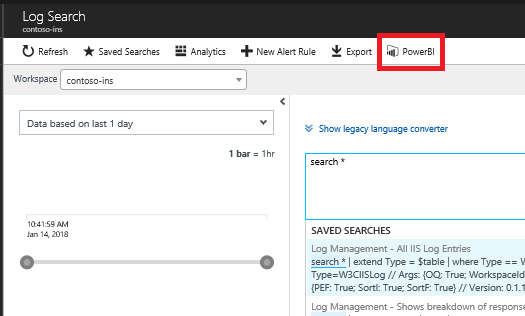
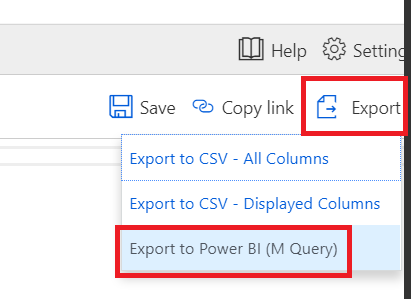
October updates for Azure changes

diff --git a/Hands-on lab/HOL step-by step - Azure security privacy and compliance.md b/Hands-on lab/HOL step-by step - Azure security privacy and compliance.md
@@ -9,7 +9,7 @@ Hands-on lab step-by-step
 </div>
 
 <div class="MCWHeader3">
-August 2018
+October 2018
 </div>
 
 
@@ -140,7 +140,7 @@ Synopsis: In this exercise, attendees will secure a Privileged Access Workstatio
 
    f.  Select **Just in time VM access**.
 
-3.  Select the **Recommended** tab, and then check the checkbox to select all the virtual machines, and then select the **Enable JIT on 3 VMs** link.
+3.  Select the **Recommended** tab, and then check the checkbox to select the lab vms (db-1, paw-1 and web-1), and then select the **Enable JIT on 3 VMs** link.
 
 > **NOTE:** It could take up to 10 minutes for new VMs to show up if you upgraded to standard tier security.  Also note that it is possible new VMs display in the **No recommendation** tab until a backend process moves them to the **Recommended** tab.
 
@@ -156,7 +156,7 @@ Synopsis: In this exercise, attendees will secure a Privileged Access Workstatio
 
 1.  Select the **Configured** tab. You should now see all the machines listed.
 
-2.  Select the **paw-1** virtual machine, and then select **Request Access**.
+2.  Select the **paw-1** virtual machine, and then select **Request access**.
 
     ![On the Virtual machines screen, the first listed virtual machine name is selected and highlighted (paw-1), as is Request access above it.](images/Hands-onlabstep-bystep-Azuresecurityprivacyandcomplianceimages/media/image12.png "Request access for paw-1")
 
@@ -164,7 +164,7 @@ Synopsis: In this exercise, attendees will secure a Privileged Access Workstatio
 
     ![On is highlighted under Toggle for all four of the ports listed under paw-1.](images/Hands-onlabstep-bystep-Azuresecurityprivacyandcomplianceimages/media/image13.png "Select on for each of the ports")
 
-4.  At the bottom of the dialog, select **Open ports**. You should now see the **APPROVED** requests have been incremented and the **LAST ACCESS** is set to **Active now.**.
+4.  At the bottom of the dialog, select **Open ports**. After a few moments, you should now see the **APPROVED** requests have been incremented and the **LAST ACCESS** is set to **Active now.**.
 
     ![On the Virtual machines screen, 1 Requests and Active now are highlighted under Aproved and Last Access next to the paw-1 virtual machine.](images/Hands-onlabstep-bystep-Azuresecurityprivacyandcomplianceimages/media/image14.png "View Approved and Last Access status")
 
@@ -172,11 +172,13 @@ Synopsis: In this exercise, attendees will secure a Privileged Access Workstatio
 
     ![Activity Log is highlighted in the shortcut menu for the last user.](images/Hands-onlabstep-bystep-Azuresecurityprivacyandcomplianceimages/media/image15.png "View the Activity Log")
 
-6.  In the Azure Portal main menu, select **Network Security Groups**, then select **paw-1-nsg**.
+6.  In the Azure Portal main menu, select **All Services**, then type **Network**, then select **Network Security Group**:
 
-    ![Network security groups is highlighted on the left side of the Azure portal, and paw-1-nsg is highlighted to the right.](images/Hands-onlabstep-bystep-Azuresecurityprivacyandcomplianceimages/media/image16.png "Select paw-1-nsg")
+![Network security groups is highlighted on the left side of the Azure portal, and paw-1-nsg is highlighted to the right.](images/Hands-onlabstep-bystep-Azuresecurityprivacyandcomplianceimages/media/image16.png "Select paw-1-nsg")
 
-7.  Select **Inbound security rules.** You should now see a set of inbound security rules set up by JIT Access.
+7.  Select the **paw-1-nsg** network security group.
+
+8.  Select **Inbound security rules.** You should now see a set of inbound security rules set up by JIT Access.
 
     ![The first four listed items are highlighted under Inbound security rules.](images/Hands-onlabstep-bystep-Azuresecurityprivacyandcomplianceimages/media/image17.png "View the inbound security rules set up by JIT Access")
 
@@ -188,11 +190,11 @@ Synopsis: In this exercise, attendees will utilize Azure SQL features to data ma
 
 ### Task 1: Setup the database
 
-1.  Switch to your Azure portal, select **More Services** then select **SQL Servers**.
+1.  Switch to your Azure portal, select **All Services** then search for **SQL Servers**.  Select **SQl Servers**:
 
     ![More services is highlighted on the left side of the Azure portal, and SQL servers is highlighted to the right.](images/Hands-onlabstep-bystep-Azuresecurityprivacyandcomplianceimages/media/image18.png "Select SQL Servers")
 
-2.  Select the **Azure SQL** database server you created using the Azure Manager template.
+2.  Select the **Azure SQL** database server you created using the Azure Manager template (Ex:  AzureSecurity-INIT).
 
 3.  Select **SQL Databases**, then select the **SampleDB** database.
 
@@ -218,7 +220,7 @@ Synopsis: In this exercise, attendees will utilize Azure SQL features to data ma
 
 9.  Select **Connect**, in the **New Firewall Rule** dialog, select **Sign In**.
 
-10. Sign in as your Azure tenant admin.
+10. Sign in with your resource group owner credentials.
 
 11. In the dialog, select **OK**, notice how your IP address will be added for connection.
 
@@ -230,7 +232,7 @@ Synopsis: In this exercise, attendees will utilize Azure SQL features to data ma
 
 13. In the Introduction dialog, select **Next**.
 
-14. Select **Browse**, navigate to the extracted **Database** directory, and select the **Insurance.dacpac** file.
+14. Select **Browse**, navigate to the extracted **Database** directory, and select the **Insurance.bacpac** file.
 
     ![Insurance.bacpac is selected in the Browse dialog box.](images/Hands-onlabstep-bystep-Azuresecurityprivacyandcomplianceimages/media/image25.png "Select Insurance.bacpac")
 
@@ -388,7 +390,7 @@ Synopsis: In this exercise, attendees will utilize Azure SQL features to data ma
 
     d.  Select **Add New**.
 
-    e.  Select your account.
+    e.  For the principal, select your account.
 
     f.  Select **Key permissions**, and select **Select all**.
 
@@ -403,6 +405,8 @@ Synopsis: In this exercise, attendees will utilize Azure SQL features to data ma
     j.  Select **Save**.
 
     k.  Retry the operation.
+
+    > **NOTE:** If you are still getting errors (such as Access Denied), ensure that you have selected the correct subscription and Key Vault.
 
     ![Results is highlighted on the left side of the Always Encrypted dialog box, and at right, Performing encryption operations is selected under Summary: Task. Performing encryption operations has a green check mark and is listed as Passed under Details.](images/Hands-onlabstep-bystep-Azuresecurityprivacyandcomplianceimages/media/image41.png "View the task results")
 
@@ -486,21 +490,19 @@ Synopsis: In this exercise, attendees will learn how to migrate web application 
 
 7.  Copy and record the **Application ID** for later use.
 
-8.  Copy and record the **Object ID** for later use.
-
     ![The Application ID and Object ID are highlighted under Essentials for the AzureKeyVaultTest application, and All settings is selected at the bottom.](images/Hands-onlabstep-bystep-Azuresecurityprivacyandcomplianceimages/media/image50.png "Copy and record the Application ID and Object ID")
 
-9.  Select **Settings**.
+8.  Select **Settings**.
 
-10. Select **Keys**.
+9. Select **Keys**.
 
-11. For the description, enter **InsuranceAPI**.
+10. For the description, enter **InsuranceAPI**.
 
-12. For the Expires, select **In 1 year**.
+11. For the Expires, select **In 1 year**.
 
-13. Select **Save**.
+12. Select **Save**.
 
-14. Copy and record the key value for later use.
+13. Copy and record the key value for later use.
 
 ### Task 3: Assign Azure Active Directory application permissions
 
@@ -582,11 +584,17 @@ Synopsis: In this exercise, attendees will utilize Network Security Groups to en
 
 3.  In the **PAW-1** virtual machine, open **PowerShell ISE as administrator**.
 
-4.  Select File-\>Open, browse to the extracted GitHub directory and open the **\\Hands-on lab\\Scripts \\PortScanner.ps1**.
+4.  Run the following command:
 
-    > **NOTE:** You would have downloaded the GitHub repo and extraced this in the setup steps.  If you did not perform those steps, perform them now. You can also choose to copy the file from your desktop to the VM.
+```PowerShell
+Set-ExecutionPolicy -ExecutionPolicy Unrestricted
+```
 
-5.  Review the script. It does the following:
+5.  Select File-\>Open, browse to the extracted GitHub directory and open the **\\Hands-on lab\\Scripts \\PortScanner.ps1**.
+
+    > **NOTE:** You would have downloaded the [GitHub repo](https://github.com/Microsoft/MCW-Azure-Security-Privacy-and-Compliance) and extraced this in the setup steps.  If you did not perform those steps, perform them now. You can also choose to copy the file from your desktop to the VM.
+
+6.  Review the script. It does the following:
 
     a.  Installs NotePad++
 
@@ -596,7 +604,7 @@ Synopsis: In this exercise, attendees will utilize Network Security Groups to en
 
     c.  Executes port scans
 
-6.  Run the script, and press **F5.** You should see the following (the Azure ARM Template created a default rule to block all traffic):
+7.  Run the script, and press **F5.** You should see the following (the Azure ARM Template created a default rule to block all traffic):
 
     a.  Port scan for port 3389 (RDP) to **DB-1** and **WEB-1** is unsuccessful from the **PAW-1** machine.
 
@@ -656,7 +664,7 @@ Synopsis: In this exercise, attendees will utilize Network Security Groups to en
 
     h.  Select **Add**.
 
-    > **NOTE:** In some cases it may take up to 15 minutes for your Network Security Group to change is status from **Updating**.  You won't be able to add any other rules until it completes.
+    > **NOTE:** In some rare cases it may take up to 15 minutes for your Network Security Group to change is status from **Updating**.  You won't be able to add any other rules until it completes.
 
 4.  Configure both the database and web server to only allow RDP connections from the PAW machine;
 
@@ -754,7 +762,7 @@ Synopsis: In this exercise, attendees will utilize Network Security Groups to en
 
 1.  In the main Azure Portal menu, select **Monitor**.
 
-2.  In the context menu, select **Network Watcher**.
+2.  In the context menu, select **Network**.
 
     ![Monitor is selected on the left side of the Azure portal, and Network watcher is highlighted on the right.](images/Hands-onlabstep-bystep-Azuresecurityprivacyandcomplianceimages/media/image67.png "Select Network watcher")
 
@@ -887,7 +895,7 @@ Synopsis: In this exercise, you will create custom security alerts using the Azu
 
     ![Screen shot of the playbooks blade with the Add Playbook button highlighted.](images/Hands-onlabstep-bystep-Azuresecurityprivacyandcomplianceimages/media/image79.png)
 
-3.  The **Create logic app** dialog will display:
+3.  The **Create logic app** blade will display:
 
    a.  For the name, enter **Email**.
 
@@ -929,21 +937,23 @@ Synopsis: In this exercise, attendees will learn to utilize the Log Analytics fe
 
 ### Task 1: Export a Power Query formula from Log Analytics
 
-1.  Select **Monitor**, then select **Log Analytics**.
+1.  Select **Monitor**, then select **Logs**.
 
-    ![Monitor is selected on the left side of the Azure portal, and Log Analytics is highlighted on the right.](images/Hands-onlabstep-bystep-Azuresecurityprivacyandcomplianceimages/media/image85.png "Select Log Analytics")
+    ![Monitor is selected on the left side of the Azure portal, and Logs is highlighted on the right.](images/Hands-onlabstep-bystep-Azuresecurityprivacyandcomplianceimages/media/image85.png "Select Log Analytics")
 
-2.  Select **All collected data**.
+2.  Expand the **Security** node, notice the various options available:
 
     ![All collected data is highlighted on the left side under A few more queries to try.](images/Hands-onlabstep-bystep-Azuresecurityprivacyandcomplianceimages/media/image86.png "Select All collected data")
 
-3.  In the **Log Search** dialog, select the **Power BI** link.
+3.  In the query window, type **SecurityEvent**, click **Run**.
+
+4.  In the top right, select **Export**, then select the **Export to Power BI (M Query)** link.
 
     ![Power BI is highlighted at the top of the Log Search dialog box.](images/Hands-onlabstep-bystep-Azuresecurityprivacyandcomplianceimages/media/image87.png "Select Power BI")
 
-4.  Select **Open**, a text document with the Power Query M Language will be displayed.
+5.  Select **Open**, a text document with the Power Query M Language will be displayed.
 
-5.  Follow the instructions in the document to execute the query in Power BI.
+6.  Follow the instructions in the document to execute the query in Power BI.
 
     ![The instructions at the top of the PowerBIQuery.txt file are highlighted.](images/Hands-onlabstep-bystep-Azuresecurityprivacyandcomplianceimages/media/image88.png "Follow the query instructions")
 
@@ -987,7 +997,7 @@ Synopsis: In this exercise, attendees will learn to navigate the Compliance Mana
 
 ![Several categories of controls are listed on the page.](images/Hands-onlabstep-bystep-Azuresecurityprivacyandcomplianceimages/media/image91.1.png)
 
-12. Scroll to the top of the web page and in the top navigation, select **Service Trust Portal**, then scroll to the bottom of the page. Notice the two other main sections of the trust center called: **Audit Reports** and **Trust Documents**.
+12. Scroll to the top of the web page and in the top navigation, select **Service Trust Portal**, then scroll to the bottom of the page. Notice the two other sections of the trust center called:
 
 13. Select **Audit Reports**.
 

diff --git a/Hands-on lab/Before the HOL - Azure security, privacy and compliance.md b/Hands-on lab/Before the HOL - Azure security, privacy and compliance.md
@@ -9,7 +9,7 @@ Before the hands-on lab setup guide
 </div>
 
 <div class="MCWHeader3">
-August 2018
+October 2018
 </div>
 
 
@@ -119,15 +119,15 @@ Synopsis: In this exercise, you will set up your environment for use in the rest
 
         -   One storage account
 
-        -   Three virtual networks
+        -   Three virtual network (dbVNet, webVnet, mainVnet)
 
-        -   Three network security groups
+        -   Three network security groups 
 
         -   Three virtual machines (db-1, web-1, paw-1)
 
             -   IIS is installed on web-1 via a DSC script from the GitHub repository
 
-        -   One SQL Azure Server
+        -   One SQL Azure Server with sample database
 
         -   One Azure Key Vault
 
